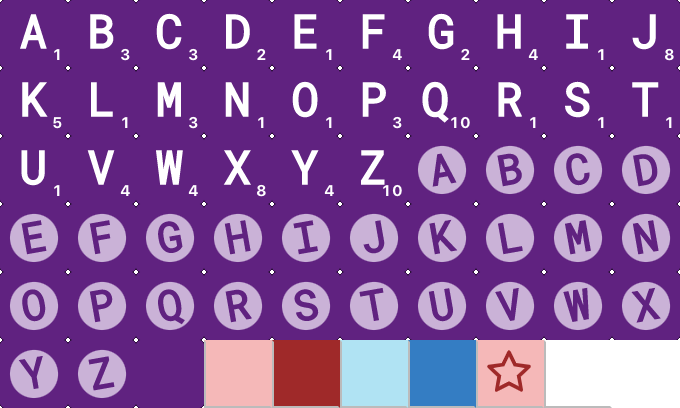
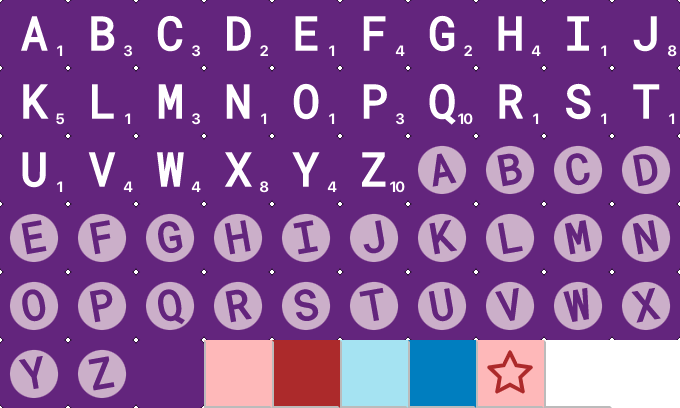
update board png

diff --git a/liwords-ui/src/gameroom/tile_images.tsx b/liwords-ui/src/gameroom/tile_images.tsx
@@ -8,6 +8,7 @@ import { alphabetFromName, runeToValues } from '../constants/alphabets';
 
 const TileImages = React.memo((props: { letterDistribution: string }) => {
   // 1. Go to this page (see App.tsx for url).
+  //    Note: use 800x600 responsive mode to get compatible styles.
   // 2. Screen-capture normally. Any white border can be cropped later.
   //    On Mac: cmd+shift+4.
   // 3. Crop the white border and assign transparency.
@@ -36,7 +37,7 @@ const TileImages = React.memo((props: { letterDistribution: string }) => {
           }}
         >
           {Array.from(
-            'ABCDEFGHIJKLMNOPQRSTUVWXYZabcdefghijklmnopqrstuvwxyz ',
+            'ABCDEFGHIJKLMNOPQRSTUVWXYZabcdefghijklmnopqrstuvwxyz?',
             (ch) => (
               <div>
                 <Tile
